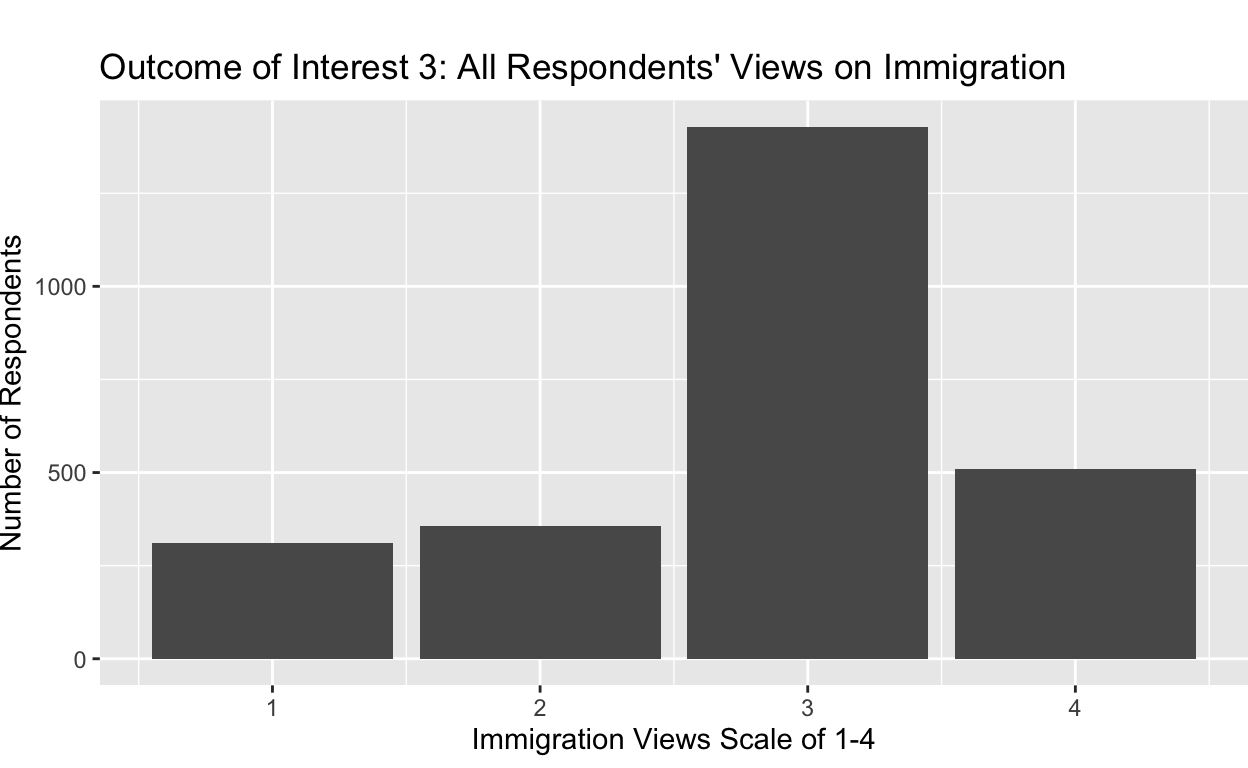
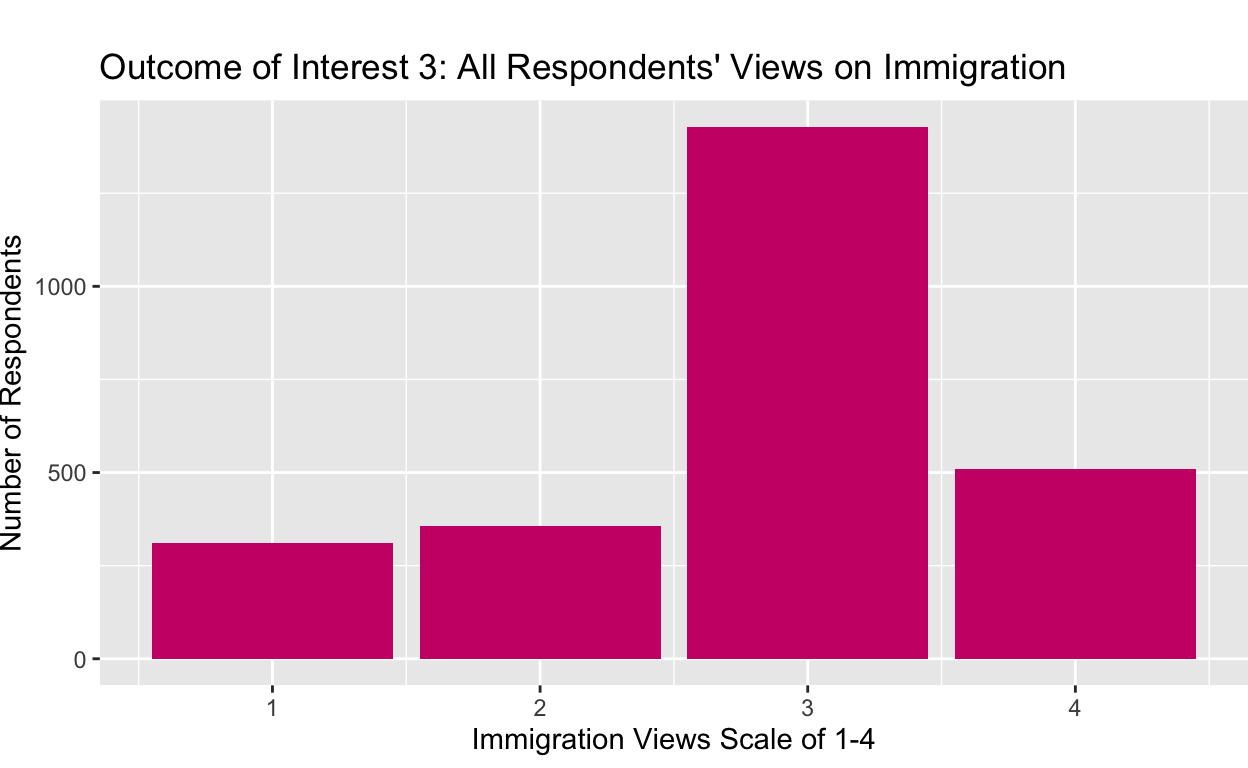
g

Changed region(s): [[0.0938, 0.1562, 0.9688, 0.875]]

diff --git a/index.html b/index.html
@@ -1665,7 +1665,7 @@ Show code
 <div class="sourceCode">
 <pre class="sourceCode r"><code class="sourceCode r"><span><span class='va'>voting_trends_dependent_abortion</span> <span class='op'>&lt;-</span> <span class='va'>voting_trends</span> <span class='op'>|&gt;</span></span>
 <span>  <span class='fu'><a href='https://ggplot2.tidyverse.org/reference/ggplot.html'>ggplot</a></span><span class='op'>(</span>mapping <span class='op'>=</span> <span class='fu'><a href='https://ggplot2.tidyverse.org/reference/aes.html'>aes</a></span><span class='op'>(</span>x <span class='op'>=</span> <span class='va'>abortion_views</span><span class='op'>)</span><span class='op'>)</span> <span class='op'>+</span></span>
-<span>           <span class='fu'><a href='https://ggplot2.tidyverse.org/reference/geom_bar.html'>geom_bar</a></span><span class='op'>(</span><span class='op'>)</span> <span class='op'>+</span></span>
+<span>           <span class='fu'><a href='https://ggplot2.tidyverse.org/reference/geom_bar.html'>geom_bar</a></span><span class='op'>(</span>fill <span class='op'>=</span> <span class='st'>"deeppink3"</span><span class='op'>)</span> <span class='op'>+</span></span>
 <span>  <span class='fu'><a href='https://ggplot2.tidyverse.org/reference/labs.html'>labs</a></span><span class='op'>(</span></span>
 <span>    x <span class='op'>=</span> <span class='st'>"Abortion Views Scale of 1-4"</span>,</span>
 <span>    y <span class='op'>=</span> <span class='st'>"Number of Respondents"</span>,</span>
@@ -1685,7 +1685,7 @@ Show code
 <div class="sourceCode">
 <pre class="sourceCode r"><code class="sourceCode r"><span><span class='va'>voting_trends_dependent_lgbtq</span> <span class='op'>&lt;-</span> <span class='va'>voting_trends</span> <span class='op'>|&gt;</span></span>
 <span>  <span class='fu'><a href='https://ggplot2.tidyverse.org/reference/ggplot.html'>ggplot</a></span><span class='op'>(</span>mapping <span class='op'>=</span> <span class='fu'><a href='https://ggplot2.tidyverse.org/reference/aes.html'>aes</a></span><span class='op'>(</span>x <span class='op'>=</span> <span class='va'>lgbtq_views</span><span class='op'>)</span><span class='op'>)</span> <span class='op'>+</span></span>
-<span>           <span class='fu'><a href='https://ggplot2.tidyverse.org/reference/geom_bar.html'>geom_bar</a></span><span class='op'>(</span><span class='op'>)</span> <span class='op'>+</span></span>
+<span>           <span class='fu'><a href='https://ggplot2.tidyverse.org/reference/geom_bar.html'>geom_bar</a></span><span class='op'>(</span>fill <span class='op'>=</span> <span class='st'>"deeppink3"</span><span class='op'>)</span> <span class='op'>+</span></span>
 <span>  <span class='fu'><a href='https://ggplot2.tidyverse.org/reference/labs.html'>labs</a></span><span class='op'>(</span></span>
 <span>    x <span class='op'>=</span> <span class='st'>"Gay Marriage Views Scale of 1-3"</span>,</span>
 <span>    y <span class='op'>=</span> <span class='st'>"Number of Respondents"</span>,</span>
@@ -1705,7 +1705,7 @@ Show code
 <div class="sourceCode">
 <pre class="sourceCode r"><code class="sourceCode r"><span><span class='va'>voting_trends_dependent_immigration</span> <span class='op'>&lt;-</span> <span class='va'>voting_trends</span> <span class='op'>|&gt;</span></span>
 <span>  <span class='fu'><a href='https://ggplot2.tidyverse.org/reference/ggplot.html'>ggplot</a></span><span class='op'>(</span>mapping <span class='op'>=</span> <span class='fu'><a href='https://ggplot2.tidyverse.org/reference/aes.html'>aes</a></span><span class='op'>(</span>x <span class='op'>=</span> <span class='va'>immigration_views</span><span class='op'>)</span><span class='op'>)</span> <span class='op'>+</span></span>
-<span>           <span class='fu'><a href='https://ggplot2.tidyverse.org/reference/geom_bar.html'>geom_bar</a></span><span class='op'>(</span><span class='op'>)</span> <span class='op'>+</span></span>
+<span>           <span class='fu'><a href='https://ggplot2.tidyverse.org/reference/geom_bar.html'>geom_bar</a></span><span class='op'>(</span>fill <span class='op'>=</span> <span class='st'>"deeppink3"</span><span class='op'>)</span> <span class='op'>+</span></span>
 <span>  <span class='fu'><a href='https://ggplot2.tidyverse.org/reference/labs.html'>labs</a></span><span class='op'>(</span></span>
 <span>    x <span class='op'>=</span> <span class='st'>"Immigration Views Scale of 1-4"</span>,</span>
 <span>    y <span class='op'>=</span> <span class='st'>"Number of Respondents"</span>,</span>
@@ -1725,7 +1725,7 @@ Show code
 <div class="sourceCode">
 <pre class="sourceCode r"><code class="sourceCode r"><span><span class='va'>voting_trends_dependent_environment</span> <span class='op'>&lt;-</span> <span class='va'>voting_trends</span> <span class='op'>|&gt;</span></span>
 <span>  <span class='fu'><a href='https://ggplot2.tidyverse.org/reference/ggplot.html'>ggplot</a></span><span class='op'>(</span>mapping <span class='op'>=</span> <span class='fu'><a href='https://ggplot2.tidyverse.org/reference/aes.html'>aes</a></span><span class='op'>(</span>x <span class='op'>=</span> <span class='va'>environment_views</span><span class='op'>)</span><span class='op'>)</span> <span class='op'>+</span></span>
-<span>           <span class='fu'><a href='https://ggplot2.tidyverse.org/reference/geom_bar.html'>geom_bar</a></span><span class='op'>(</span><span class='op'>)</span> <span class='op'>+</span></span>
+<span>           <span class='fu'><a href='https://ggplot2.tidyverse.org/reference/geom_bar.html'>geom_bar</a></span><span class='op'>(</span>fill <span class='op'>=</span> <span class='st'>"deeppink3"</span><span class='op'>)</span> <span class='op'>+</span></span>
 <span>  <span class='fu'><a href='https://ggplot2.tidyverse.org/reference/labs.html'>labs</a></span><span class='op'>(</span></span>
 <span>    x <span class='op'>=</span> <span class='st'>"Environment Views Scale of 1-7"</span>,</span>
 <span>    y <span class='op'>=</span> <span class='st'>"Number of Respondents"</span>,</span>
@@ -1745,7 +1745,7 @@ Show code
 <div class="sourceCode">
 <pre class="sourceCode r"><code class="sourceCode r"><span><span class='va'>voting_trends_dependent_economy</span> <span class='op'>&lt;-</span> <span class='va'>voting_trends</span> <span class='op'>|&gt;</span></span>
 <span>  <span class='fu'><a href='https://ggplot2.tidyverse.org/reference/ggplot.html'>ggplot</a></span><span class='op'>(</span>mapping <span class='op'>=</span> <span class='fu'><a href='https://ggplot2.tidyverse.org/reference/aes.html'>aes</a></span><span class='op'>(</span>x <span class='op'>=</span> <span class='va'>economy_views</span><span class='op'>)</span><span class='op'>)</span> <span class='op'>+</span></span>
-<span>           <span class='fu'><a href='https://ggplot2.tidyverse.org/reference/geom_bar.html'>geom_bar</a></span><span class='op'>(</span><span class='op'>)</span> <span class='op'>+</span></span>
+<span>           <span class='fu'><a href='https://ggplot2.tidyverse.org/reference/geom_bar.html'>geom_bar</a></span><span class='op'>(</span>fill <span class='op'>=</span> <span class='st'>"deeppink3"</span><span class='op'>)</span> <span class='op'>+</span></span>
 <span>  <span class='fu'><a href='https://ggplot2.tidyverse.org/reference/labs.html'>labs</a></span><span class='op'>(</span></span>
 <span>    x <span class='op'>=</span> <span class='st'>"Economy Views Scale of 1-5"</span>,</span>
 <span>    y <span class='op'>=</span> <span class='st'>"Number of Respondents"</span>,</span>
